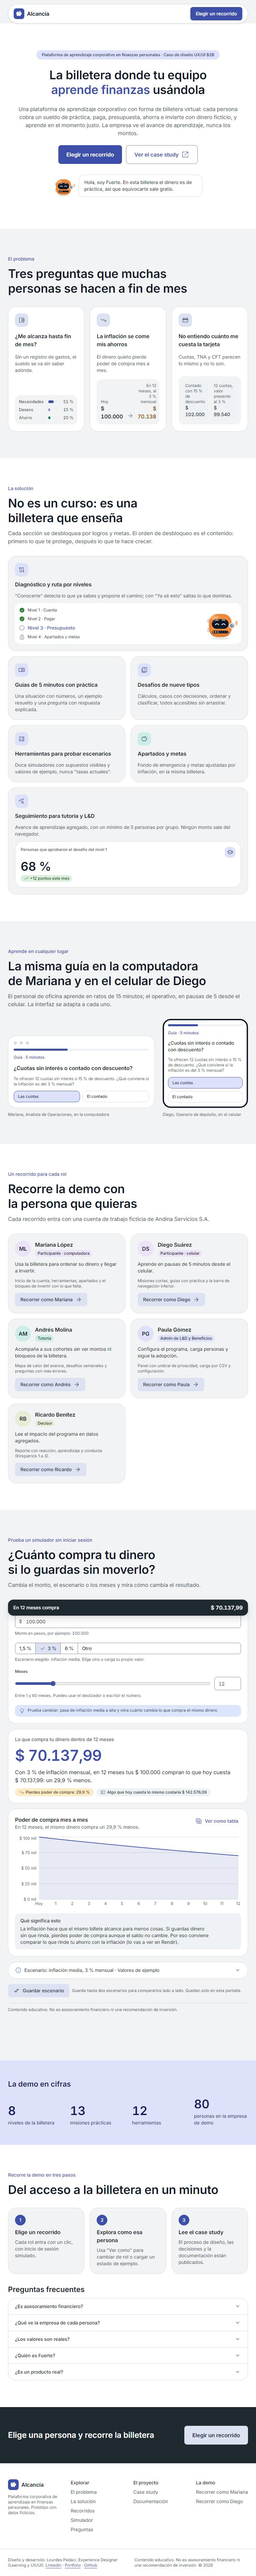
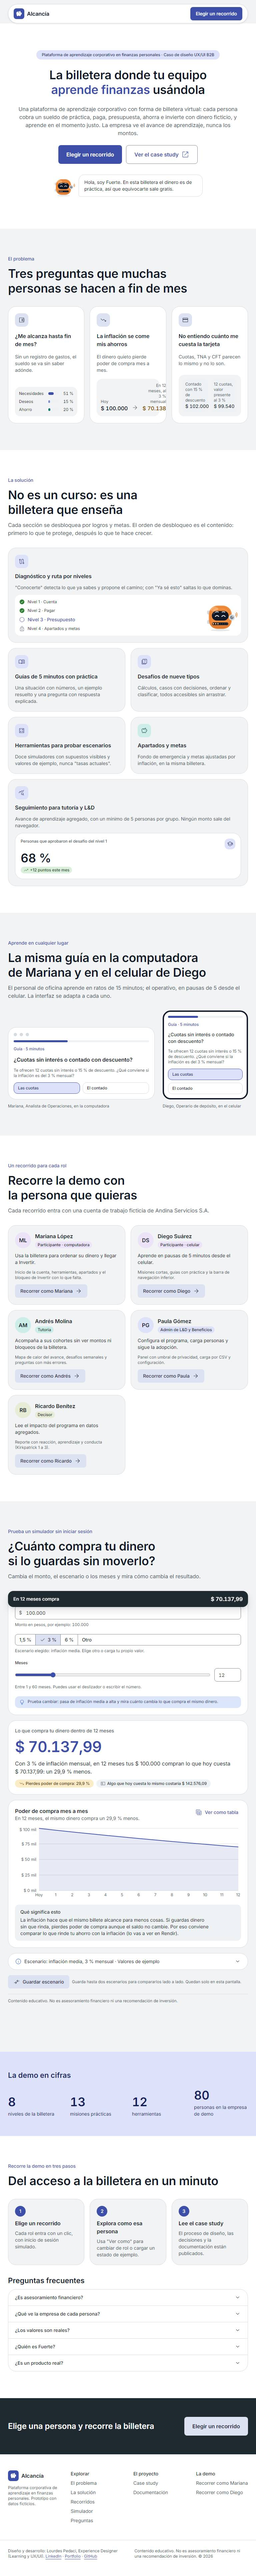
Apply non-breaking spaces in amounts and percentages (D-68) and credit references in the visual audit

diff --git a/src/lib/money.test.ts b/src/lib/money.test.ts
@@ -1,47 +1,59 @@
 import { describe, expect, it } from 'vitest';
-import { formatCompactMoney, formatMoney, formatNumber, formatPercent, MINUS, parseDecimalInput } from './money';
+import { formatCompactMoney, formatMoney, formatNumber, formatPercent, MINUS, NBSP, parseDecimalInput } from './money';
+
+/** Tests are written with readable spaces; the formatter uses non-breaking ones (D-68). */
+const nb = (text: string) => text.replace(/ /g, NBSP);
 
 describe('formatMoney (CLAUDE.md 2.9)', () => {
   it('uses the sign, a space, dots for thousands and a comma for decimals', () => {
-    expect(formatMoney('1234567.89')).toBe('$ 1.234.567,89');
-    expect(formatMoney('1284958.86')).toBe('$ 1.284.958,86');
-    expect(formatMoney('0')).toBe('$ 0,00');
+    expect(formatMoney('1234567.89')).toBe(nb('$ 1.234.567,89'));
+    expect(formatMoney('1284958.86')).toBe(nb('$ 1.284.958,86'));
+    expect(formatMoney('0')).toBe(nb('$ 0,00'));
   });
 
   it('rounds half up to cents, never with floating point errors', () => {
-    expect(formatMoney('256991.772')).toBe('$ 256.991,77');
-    expect(formatMoney('0.005')).toBe('$ 0,01');
-    expect(formatMoney('0.1').replace(/\s/g, '')).toBe('$0,10');
+    expect(formatMoney('256991.772')).toBe(nb('$ 256.991,77'));
+    expect(formatMoney('0.005')).toBe(nb('$ 0,01'));
+    expect(formatMoney('0.1').replace(/\s/g, '')).toBe(nb('$0,10'));
   });
 
   it('shows foreign currency with its code', () => {
-    expect(formatMoney('1200', { currency: 'USD', decimals: 0 })).toBe('USD 1.200');
-    expect(formatMoney('1008712.49', { currency: 'USD' })).toBe('USD 1.008.712,49');
+    expect(formatMoney('1200', { currency: 'USD', decimals: 0 })).toBe(nb('USD 1.200'));
+    expect(formatMoney('1008712.49', { currency: 'USD' })).toBe(nb('USD 1.008.712,49'));
   });
 
   it('uses a real minus sign and, on request, a plus sign', () => {
-    expect(formatMoney('-4990')).toBe(`${MINUS}$ 4.990,00`);
-    expect(formatMoney('24953.66', { sign: 'always' })).toBe('+$ 24.953,66');
-    expect(formatMoney('0', { sign: 'always' })).toBe('$ 0,00');
+    expect(formatMoney('-4990')).toBe(nb(`${MINUS}$ 4.990,00`));
+    expect(formatMoney('24953.66', { sign: 'always' })).toBe(nb('+$ 24.953,66'));
+    expect(formatMoney('0', { sign: 'always' })).toBe(nb('$ 0,00'));
+  });
+});
+
+describe('non-breaking spaces (D-68)', () => {
+  it('never leaves the currency, the minus or the % sign alone at the end of a line', () => {
+    for (const text of [formatMoney('-4990'), formatMoney('1200', { currency: 'USD' }), formatCompactMoney('12345678'), formatPercent('0.03')]) {
+      expect(text).not.toMatch(/ /);
+      expect(text).toContain(NBSP);
+    }
   });
 });
 
 describe('formatCompactMoney (CLAUDE.md 2.7)', () => {
   it('abbreviates millions and keeps smaller amounts whole', () => {
-    expect(formatCompactMoney('12345678.90')).toBe('$ 12,3 M');
-    expect(formatCompactMoney('50000000')).toBe('$ 50 M');
-    expect(formatCompactMoney('2500000000')).toBe('$ 2,5 mil M');
-    expect(formatCompactMoney('950000')).toBe('$ 950.000');
+    expect(formatCompactMoney('12345678.90')).toBe(nb('$ 12,3 M'));
+    expect(formatCompactMoney('50000000')).toBe(nb('$ 50 M'));
+    expect(formatCompactMoney('2500000000')).toBe(nb('$ 2,5 mil M'));
+    expect(formatCompactMoney('950000')).toBe(nb('$ 950.000'));
   });
 });
 
 describe('formatPercent', () => {
   it('drops trailing zeros and keeps a space before %', () => {
-    expect(formatPercent('0.03')).toBe('3 %');
-    expect(formatPercent('0.425')).toBe('42,5 %');
-    expect(formatPercent('0.4258623040')).toBe('42,59 %');
-    expect(formatPercent('-0.000398989', { decimals: 4 })).toBe(`${MINUS}0,0399 %`);
-    expect(formatPercent('0.0154', { sign: 'always', decimals: 2 })).toBe('+1,54 %');
+    expect(formatPercent('0.03')).toBe(nb('3 %'));
+    expect(formatPercent('0.425')).toBe(nb('42,5 %'));
+    expect(formatPercent('0.4258623040')).toBe(nb('42,59 %'));
+    expect(formatPercent('-0.000398989', { decimals: 4 })).toBe(nb(`${MINUS}0,0399 %`));
+    expect(formatPercent('0.0154', { sign: 'always', decimals: 2 })).toBe(nb('+1,54 %'));
   });
 });
 

diff --git a/src/lib/money.ts b/src/lib/money.ts
@@ -15,6 +15,9 @@ export type DecimalLike = Decimal | string | number;
 /** U+2212, the typographic minus sign: easier to read than a hyphen next to a currency symbol. */
 export const MINUS = '−';
 
+/** U+00A0: keeps the currency or the % sign on the same line as the number (D-68). */
+export const NBSP = ' ';
+
 const toDecimal = (value: DecimalLike) => (value instanceof Decimal ? value : new Decimal(value));
 
 /** Groups the integer part with dots and uses a comma for decimals: 1234567.8 → "1.234.567,80". */
@@ -44,7 +47,7 @@ export interface MoneyFormatOptions {
 export function formatMoney(value: DecimalLike, { currency = 'ARS', decimals = 2, sign = 'auto' }: MoneyFormatOptions = {}): string {
   const d = toDecimal(value);
   const symbol = currency === 'ARS' ? '$' : 'USD';
-  return `${signPrefix(d, sign)}${symbol} ${formatNumber(d, decimals)}`;
+  return `${signPrefix(d, sign)}${symbol}${NBSP}${formatNumber(d, decimals)}`;
 }
 
 /**
@@ -56,8 +59,8 @@ export function formatCompactMoney(value: DecimalLike, { currency = 'ARS' }: { c
   const abs = d.abs();
   const symbol = currency === 'ARS' ? '$' : 'USD';
   const prefix = signPrefix(d, 'auto');
-  if (abs.gte(1e9)) return `${prefix}${symbol} ${trimZeros(formatNumber(abs.div(1e9), 1))} mil M`;
-  if (abs.gte(1e6)) return `${prefix}${symbol} ${trimZeros(formatNumber(abs.div(1e6), 1))} M`;
+  if (abs.gte(1e9)) return `${prefix}${symbol}${NBSP}${trimZeros(formatNumber(abs.div(1e9), 1))}${NBSP}mil${NBSP}M`;
+  if (abs.gte(1e6)) return `${prefix}${symbol}${NBSP}${trimZeros(formatNumber(abs.div(1e6), 1))}${NBSP}M`;
   return formatMoney(d, { currency, decimals: 0 });
 }
 
@@ -73,7 +76,7 @@ export interface PercentFormatOptions {
 /** Rates are fractions (0.03) and show as percentages ("3 %"). Always say the period next to it (2.9). */
 export function formatPercent(fraction: DecimalLike, { decimals = 2, sign = 'auto' }: PercentFormatOptions = {}): string {
   const pct = toDecimal(fraction).times(100);
-  return `${signPrefix(pct, sign)}${trimZeros(formatNumber(pct, decimals))} %`;
+  return `${signPrefix(pct, sign)}${trimZeros(formatNumber(pct, decimals))}${NBSP}%`;
 }
 
 /**

diff --git a/src/features/simulators/InflationSimulator.tsx b/src/features/simulators/InflationSimulator.tsx
@@ -12,7 +12,7 @@ import { Table, TableBody, TableCell, TableContainer, TableHead, TableHeaderCell
 import { sourceById } from '@/app/sources';
 import scenarios from '@/data/scenarios.json';
 import { D, purchasingPower } from '@/lib/finance';
-import { formatMoney, formatNumber, formatPercent, parseDecimalInput } from '@/lib/money';
+import { formatMoney, formatNumber, formatPercent, NBSP, parseDecimalInput } from '@/lib/money';
 import { cn } from '@/lib/utils';
 
 /**
@@ -282,7 +282,7 @@ export function InflationSimulator({
                         axisLine={false}
                         width={72}
                         tick={{ fill: 'var(--md-sys-color-on-surface-variant)', fontSize: 12 }}
-                        tickFormatter={(v: number) => `$ ${formatNumber(String(Math.round(v / 1000)), 0)} mil`}
+                        tickFormatter={(v: number) => `$${NBSP}${formatNumber(String(Math.round(v / 1000)), 0)}${NBSP}mil`}
                       />
                       <Tooltip
                         cursor={{ stroke: 'var(--md-sys-color-outline)' }}

diff --git a/src/components/money/PercentInput.tsx b/src/components/money/PercentInput.tsx
@@ -2,7 +2,7 @@ import { type FocusEvent, forwardRef, useMemo, useState } from 'react';
 import { useTranslation } from 'react-i18next';
 import { TextField, type TextFieldProps } from '@/components/ui/TextField';
 import { percentMask } from '@/lib/input-masks';
-import { MINUS, parseDecimalInput } from '@/lib/money';
+import { MINUS, NBSP, parseDecimalInput } from '@/lib/money';
 
 export interface PercentInputProps extends Omit<TextFieldProps, 'mask' | 'trailing' | 'inputMode' | 'type'> {
   /** Allows a leading minus (for example, a negative real rate). */
@@ -32,7 +32,7 @@ export const PercentInput = forwardRef<HTMLInputElement, PercentInputProps>(func
         setter?.call(input, formatted);
         input.dispatchEvent(new Event('input', { bubbles: true }));
       }
-      setAnnounce(t('ui.valueAnnounce', { value: `${formatted.replace('-', MINUS)} %` }));
+      setAnnounce(t('ui.valueAnnounce', { value: `${formatted.replace('-', MINUS)}${NBSP}%` }));
     } else {
       setAnnounce('');
     }

diff --git a/src/features/styleguide/StyleguidePage.tsx b/src/features/styleguide/StyleguidePage.tsx
@@ -481,9 +481,9 @@ export function StyleguidePage() {
 
       <Section id="progreso" title="Progreso y carga">
         <Panel className="flex flex-col gap-4">
-          <ProgressBar value={progress} label="Fondo de emergencia" valueText={`${progress} %`} />
-          <ProgressBar value={100} label="Guías del nivel 1" valueText="100 %" tone="success" />
-          <ProgressBar value={progress} size="lg" label="Meta de ahorro (barra gruesa)" valueText={`${progress} %`} />
+          <ProgressBar value={progress} label="Fondo de emergencia" valueText={`${progress} %`} />
+          <ProgressBar value={100} label="Guías del nivel 1" valueText={'100 %'} tone="success" />
+          <ProgressBar value={progress} size="lg" label="Meta de ahorro (barra gruesa)" valueText={`${progress} %`} />
           <div className="flex flex-col gap-2">
             <p className="text-label-medium text-on-surface">Barra segmentada</p>
             <SegmentedProgress

diff --git a/docs/decisions.md b/docs/decisions.md
@@ -39,9 +39,10 @@
 | D-131 | 12/11/2026 | Estado de la billetera de Diego y Mariana | Se genera con el motor de la billetera en el paso 6 (`wallet-engine.md` 12), no a mano. En el paso 3 se guardan solo sus estados de niveles | Coherencia con las reglas del motor | Informativa |
 | D-132 | 12/11/2026 | Cohortes y tutoría de la semilla | 4 cohortes, una por área (Operaciones 32, Administración 20, Tecnología 24, Comercial 4, esta última debajo del umbral); Andrés Molina es tutor de las 4; Mariana y Diego están en Operaciones | La spec pide una cohorte por área y una con menos de 5 personas | Lourdes confirma |
 | D-133 | 12/11/2026 | Umbral de privacidad con totales y partes | Además de ocultar grupos de menos de 5, `breakdown()` aplica supresión complementaria: si lo oculto suma menos de 5 personas, también oculta la parte visible más chica, para que "total menos lo visible" no revele un grupo chico | La spec pide no mostrar grupos chicos; restar el total los revelaría | Informativa |
-| D-134 | 12/11/2026 | ¿Cómo se adapta Fuerte al sistema de diseño? | Misma geometría del escape room (cuerpo, visor, ojos, cejas, perilla, bisagras) con relleno plano: naranja `#f08c3e`, una zona clara plana y una sombra plana `#b85a1c`, sin degradés. Siete luces en el panel, una por nivel de la billetera (el original tiene cinco, una por candado). Seis estados con cambios de ojos, cejas, perilla y un signo chico (ondas, "!", chispas, "z") | Conservar el personaje (D-51) dentro de las reglas de 2.2 y D-52 | Se aprueba en el piloto visual |
+| D-134 | 12/11/2026 | ¿Cómo se adapta Fuerte al sistema de diseño? | Misma geometría del escape room (cuerpo, visor, ojos, cejas, perilla, bisagras) con relleno plano: naranja `#f08c3e`, una zona clara plana y una sombra plana `#b85a1c`, sin degradés. Siete luces en el panel, una por nivel de la billetera (el original tiene cinco, una por candado). Seis estados con cambios de ojos, cejas, perilla y un signo chico (ondas, "!", chispas, "z") | Conservar el personaje (D-51) dentro de las reglas de 2.2 y D-52 | Confirmada por Lourdes (12/11/2026); spec actualizada en 5.0.1 |
 | D-135 | 12/11/2026 | ¿Qué datos usa P1 en el piloto? | Un estado de Mariana escrito a mano (`pilot-fixture.ts`), coherente con `wallet-engine.md`: día 154 (19/04/2027), sueldo y alquiler con la actualización trimestral (D-111), luz y supermercado con la inflación del mes. Se borra en el paso 6, cuando el motor genera el estado (D-131) | Mostrar P1 sin adelantar el motor | Informativa |
 | D-136 | 12/11/2026 | La misión activa en celular y tablet | Tarjeta fija arriba del contenido (5.3), compacta, con el paso y el título; en escritorio, panel fijo a la derecha con Fuerte. La hoja inferior que la expande llega en el paso 6 | Spec 5.3 | Informativa |
-| D-137 | 12/11/2026 | Etiquetas de los escenarios de SIM-3 en celular | Los botones dicen "1,5 %", "3 %", "6 %" y "Otro", y debajo se nombra el escenario elegido ("Escenario elegido: inflación media"). Con "Baja · 1,5 %" se cortaban en 320 y 375 px | Ningún texto cortado (2.7) sin perder el nombre del escenario | Lourdes confirma |
+| D-137 | 12/11/2026 | Etiquetas de los escenarios de SIM-3 en celular | Los botones dicen "1,5 %", "3 %", "6 %" y "Otro", y debajo se nombra el escenario elegido ("Escenario elegido: inflación media"). Con "Baja · 1,5 %" se cortaban en 320 y 375 px | Ningún texto cortado (2.7) sin perder el nombre del escenario | Confirmada por Lourdes (12/11/2026) |
 | D-138 | 12/11/2026 | ¿Cuándo se abrevia un monto? | Solo desde un millón ("$ 12,3 M"); por debajo siempre se muestra completo, aunque la tarjeta sea angosta | Abreviar montos chicos no ahorra espacio y pierde precisión | Informativa |
-| D-139 | 12/11/2026 | Logo provisorio | Cuadrado índigo con el ícono de alcancía (Material Symbols "savings") y el nombre en Inter. Provisorio hasta que Lourdes defina el logo (D-02) | La spec pide logo propio; el nombre también es provisorio | Lourdes confirma |
+| D-139 | 12/11/2026 | Logo provisorio | Cuadrado índigo con el ícono de alcancía (Material Symbols "savings") y el nombre en Inter. Provisorio hasta que Lourdes defina el logo (D-02) | La spec pide logo propio; el nombre también es provisorio | Confirmada por Lourdes (12/11/2026), provisoria como el nombre (D-02) |
+| D-140 | 12/11/2026 | Alcance del espacio de no separación (D-68) | Se aplica entre `$`, `USD` o `−` y el número en `formatMoney` y `formatCompactMoney`, y también entre el número y `%` en `formatPercent`, para que el signo de porcentaje nunca quede solo en otra línea. Los textos fijos con montos en los archivos de idioma usan el mismo espacio | Misma razón que D-68, aplicada a los porcentajes | Informativa |

diff --git a/docs/visual-audit.md b/docs/visual-audit.md
@@ -6,13 +6,13 @@
 
 | Archivo local | Publicación original | Autor | Qué es |
 | --- | --- | --- | --- |
-| `f9c298e7481e7822669ebf9d6a8ef447.webp` | "Cognify" (panel de exámenes). **Enlace por confirmar:** no se encontró en Dribbble una publicación con este diseño (las que se llaman Cognify son otros paneles) | Por confirmar (Lourdes) | Panel de resultados de exámenes con navegación superior en píldoras |
+| `f9c298e7481e7822669ebf9d6a8ef447.webp` | "Cognify" (panel de exámenes). Captura de Dribbble, sin enlace: no se encontró la publicación original (las que se llaman Cognify en Dribbble son otros paneles) | Autor sin identificar | Panel de resultados de exámenes con navegación superior en píldoras |
 | `original-7a0529b60b5bbbc5da39f5fd285ea2ca.webp` | [Coursify – Learning Management System Dashboard](https://dribbble.com/shots/26180945-Coursify-Learning-Management-System-Dashboard-Figma) | Peterdraw Studio (el pie de la imagen dice "Copyright © 2025 Peterdraw") | Panel de un LMS con menú lateral y columna derecha fija |
 | `original-ef0e125169848c60c815fee0cdbc3e04.webp` y `original-f51fa752dd69b8648c4cb23257f85314.webp` | [Educo – eLearning Dashboard](https://dribbble.com/shots/14789537-Educo-eLearning-Dashboard) | RH LeadCraft Studio | Inicio de un estudiante: banner de saludo, lista de cursos y KPIs chicos (la primera es un recorte de la segunda) |
 | `videoframe_6496.png` | [Avenra – AI Neurology Clinical Dashboard](https://dribbble.com/shots/27719176-Avenra-AI-Neurology-Clinical-Dashboard) | DESH. Group | Panel clínico con saludo grande, tarjetas con flecha y agenda por días |
-| `original-d624f662813f72270d07325f96f4c17a.mp4` | Referencia heredada de Rumbo (D-101). **Enlace por confirmar** | Por confirmar (Lourdes) | Video de una bienvenida guiada de 3 pasos en un modal |
+| `original-d624f662813f72270d07325f96f4c17a.mp4` | Captura de Dribbble heredada de Rumbo (D-101), sin enlace: la documentación de Rumbo tampoco registra su autor | Autor sin identificar | Video de una bienvenida guiada de 3 pasos en un modal |
 
-Autores verificados en Dribbble el 12/11/2026, comparando la publicación con la imagen local.
+Autores verificados en Dribbble el 12/11/2026, comparando la publicación con la imagen local. Las dos referencias sin autor identificado se describen solo con palabras; como las imágenes no se publican (D-66), alcanza con la descripción (indicación de Lourdes).
 
 ## 2. Qué se toma y qué no, por referencia
 
@@ -72,7 +72,7 @@ Autores verificados en Dribbble el 12/11/2026, comparando la publicación con la
 | **G0 Landing** | Estructura de página de producto B2B de Rumbo (F0); Educo para el banner del hero | Hero con piezas reales del producto a los costados desde 1280 px (resultado de SIM-3, tarjeta de meta, KPI). SIM-3 embebido y funcionando. Fuerte presenta la billetera en la sección de solución. Bandas alternadas de `surface` y blanco, sin degradés |
 | **P1 Inicio de la cuenta** | Coursify (menú lateral, columna derecha fija, actividad), Educo (saludo), Avenra (saludo con acciones, flecha en tarjetas), Cognify (KPIs con contexto) | Saldo grande con poder de compra al lado y cartel "Billetera de práctica · dinero ficticio"; tarjeta de misión activa; próximo desbloqueo con progreso; últimos movimientos con `MoneyText` y signo. En celular, barra inferior de 5 destinos y misión como tarjeta fija (5.3) |
 | **SIM-3** | Ninguna directa: anatomía del simulador de 2.2.1 | Datos a la izquierda y resultado en `display-medium` a la derecha en escritorio; en celular, resultado en una franja fija. Gráfico de área con relleno plano, "Ver como tabla", supuestos plegables, comparar escenarios, "Prueba cambiar…" y aviso legal |
-| **Fuerte** | Diseño original del escape room "Tu primer sueldo" (Lourdes) | Mismo cuerpo, visor, ojos, cejas, perilla y bisagras, **con relleno plano** (el original usa degradés de metal): naranja `#f08c3e` y luces `#ffc387` (D-108). Siete luces, una por nivel de la billetera (el original tiene cinco, una por candado). Seis estados (5.0.1) |
+| **Fuerte** | Diseño original del escape room "Tu primer sueldo" (Lourdes) | Mismo cuerpo, visor, ojos, cejas, perilla y bisagras, **con relleno plano** (el original usa degradés de metal): naranja `#f08c3e` y luces `#ffc387` (D-108). Siete luces, una por nivel de la billetera (el original tiene cinco, una por candado; D-134, confirmada). Seis estados (5.0.1) |
 
 ## 4. Celular sin referencia propia
 
